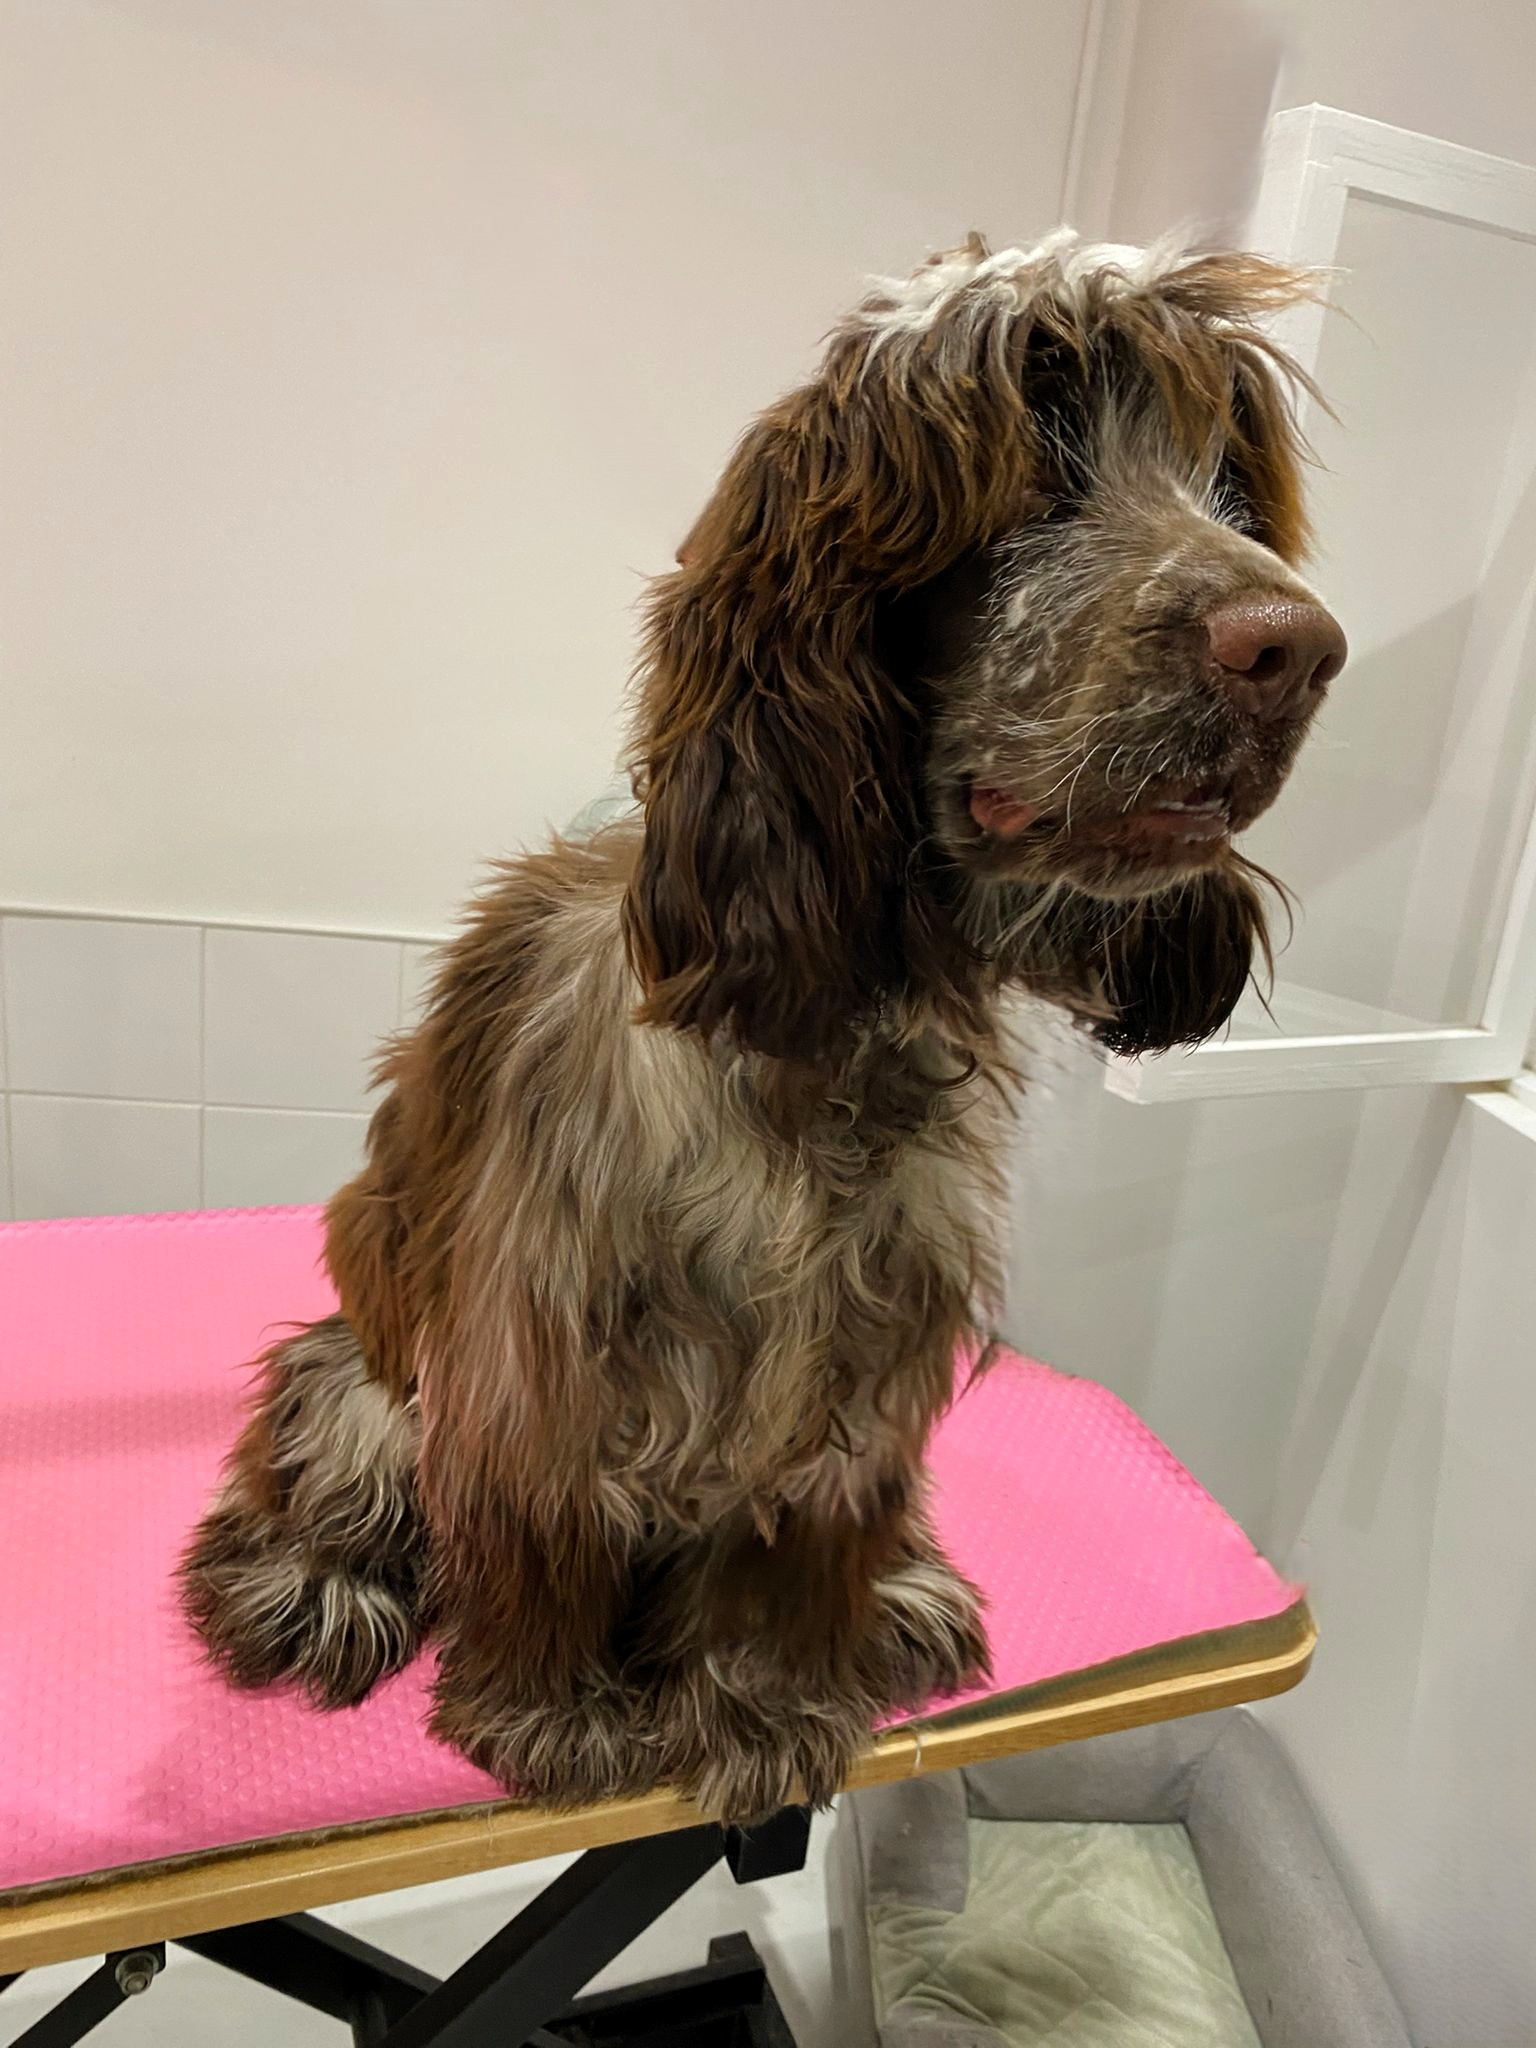
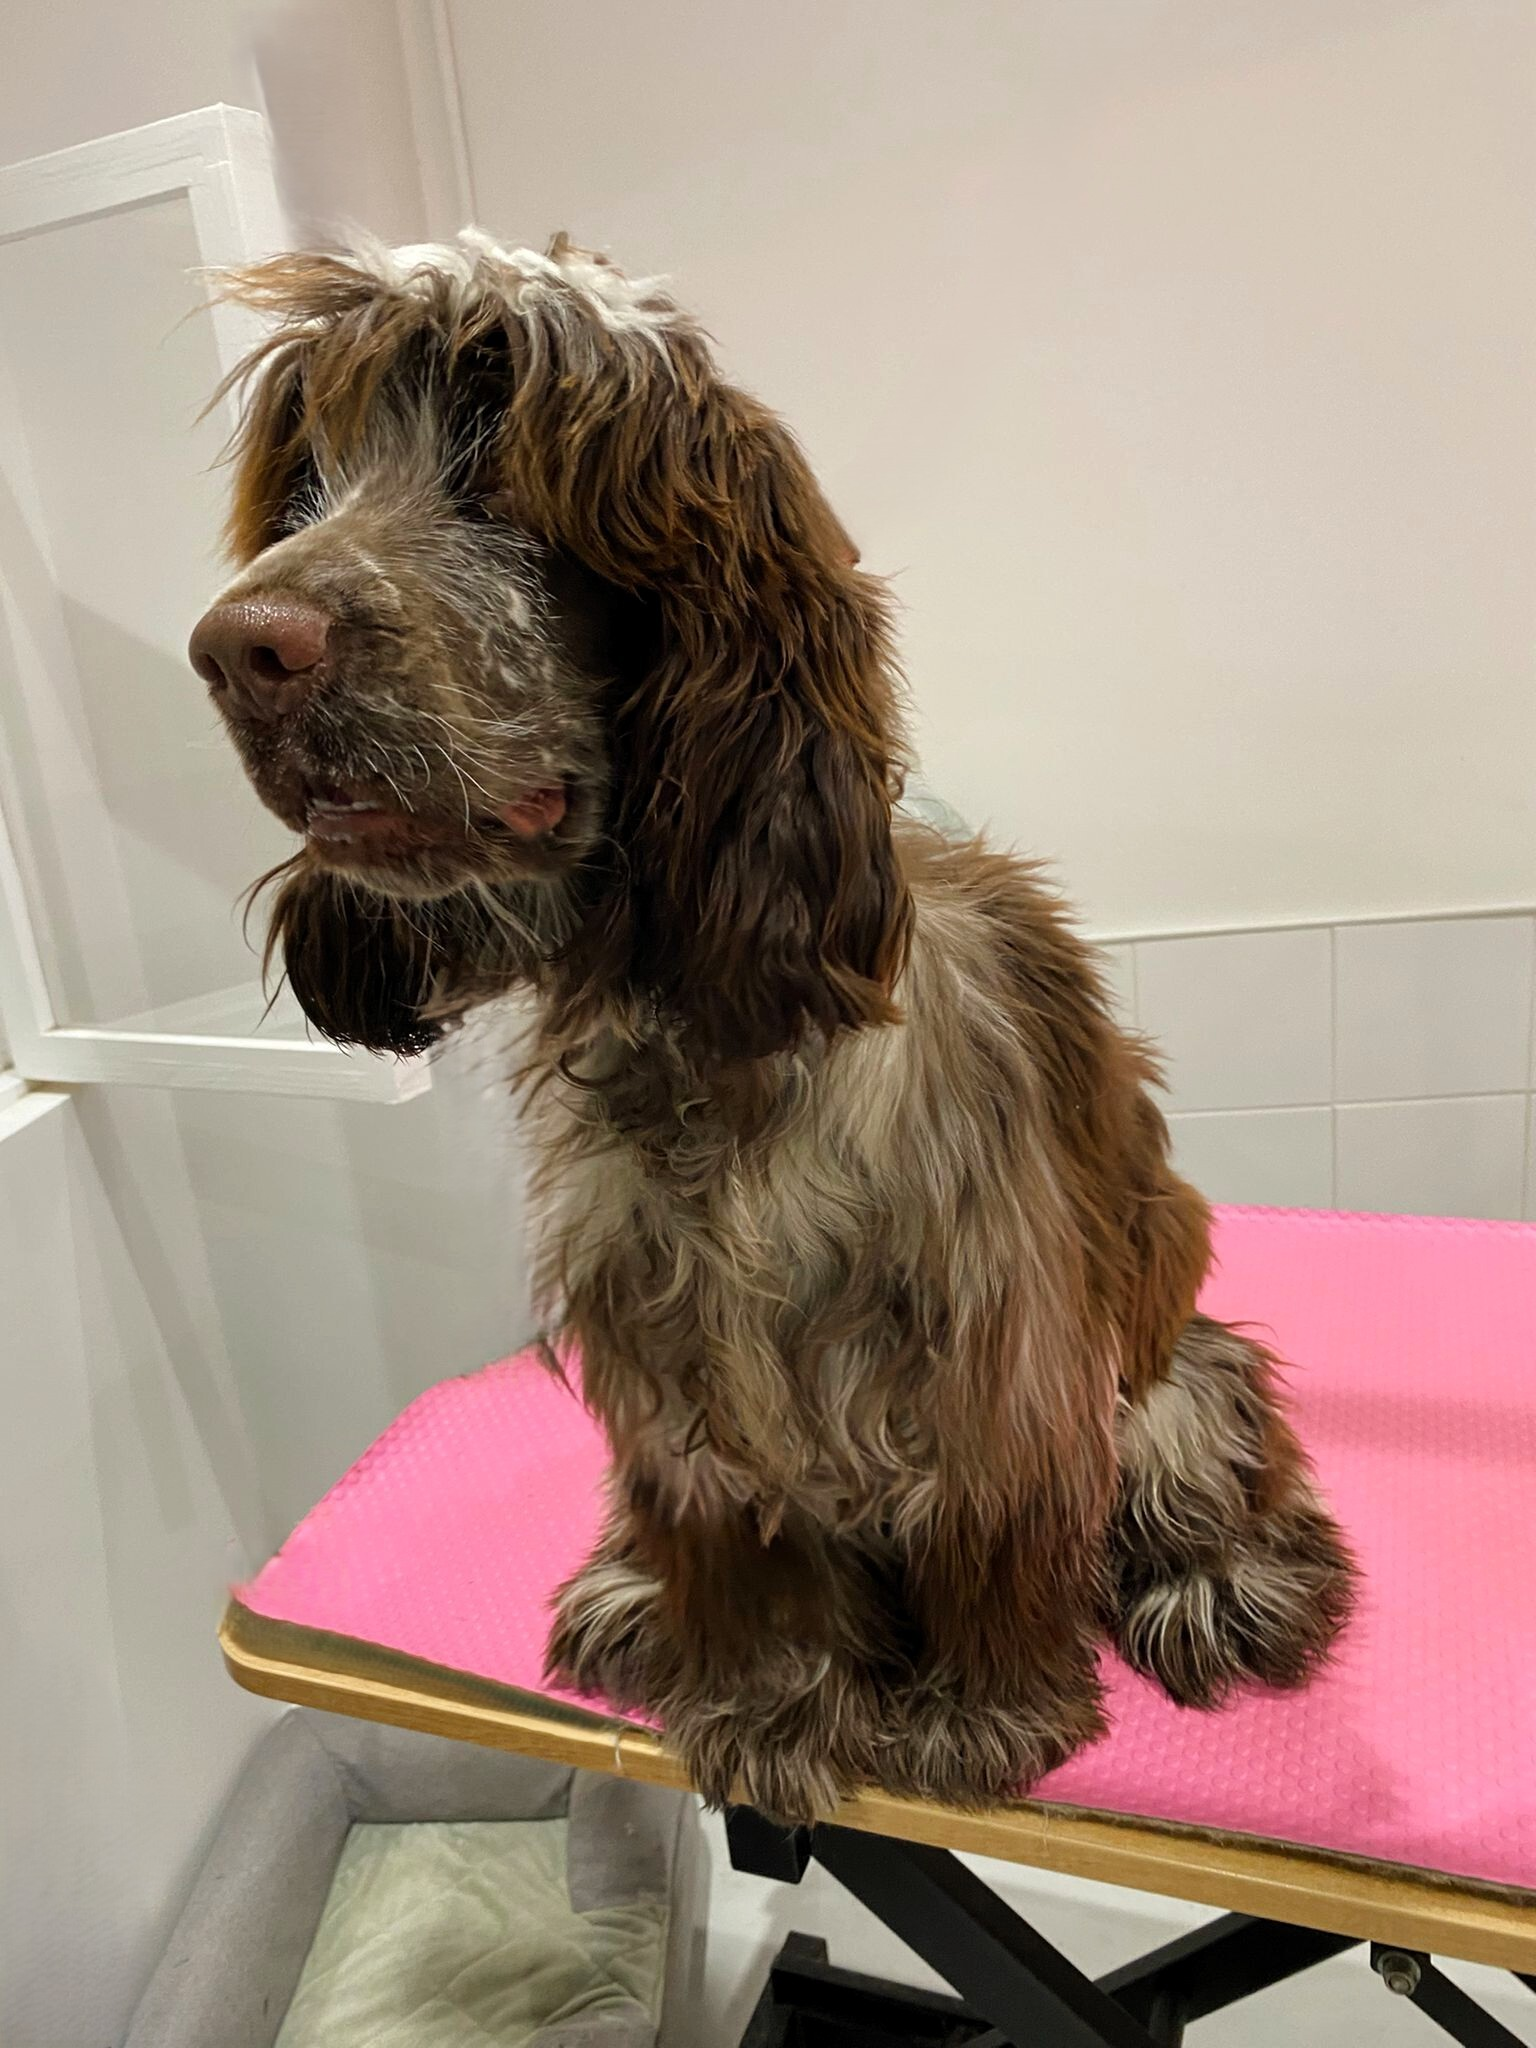
feat: avant/après zoom and position adjustments for slots 3-6
- Slot 3: zoom 1.3, after zoom 1.6, avant flipped horizontally
- Slot 4: zoom 1.2, avant zoom 1.5
- Slot 5: zoom 1.3, after zoom 1.5, avant pulled down (65%)
- Slot 6: zoom 1.3
- BeforeAfterSlider: added beforeZoom and afterZoom props

diff --git a/src/app/(marketing)/services/[slug]/page.tsx b/src/app/(marketing)/services/[slug]/page.tsx
@@ -39,19 +39,25 @@ const BEFORE_AFTER_PAIRS = [
   {
     before: { src: '/avant-apres-3-avant.jpg', alt: 'Avant toilettage' },
     after: { src: '/avant-apres-3-apres.jpg', alt: 'Après toilettage' },
+    zoom: 1.3,
+    afterZoom: 1.6,
   },
   {
     before: { src: '/avant-apres-4-avant.jpg', alt: 'Avant toilettage' },
     after: { src: '/avant-apres-4-apres.jpg', alt: 'Après toilettage' },
     zoom: 1.2,
+    beforeZoom: 1.5,
   },
   {
-    before: { src: '/avant-apres-5-avant.jpg', alt: 'Avant toilettage' },
+    before: { src: '/avant-apres-5-avant.jpg', alt: 'Avant toilettage', position: 'center 65%' },
     after: { src: '/avant-apres-5-apres.jpg', alt: 'Après toilettage' },
+    zoom: 1.3,
+    afterZoom: 1.5,
   },
   {
     before: { src: '/avant-apres-6-avant.jpg', alt: 'Avant toilettage' },
     after: { src: '/avant-apres-6-apres.jpg', alt: 'Après toilettage' },
+    zoom: 1.3,
   },
 ]
 
@@ -177,6 +183,8 @@ export default async function ServicePage({ params }: Props) {
                     beforeColor={'beforeColor' in pair ? (pair.beforeColor as string) : undefined}
                     afterColor={'afterColor' in pair ? (pair.afterColor as string) : undefined}
                     zoom={'zoom' in pair ? (pair.zoom as number) : undefined}
+                    beforeZoom={'beforeZoom' in pair ? (pair.beforeZoom as number) : undefined}
+                    afterZoom={'afterZoom' in pair ? (pair.afterZoom as number) : undefined}
                   />
                 </Reveal>
               ))}

diff --git a/src/components/sections/before-after-slider.tsx b/src/components/sections/before-after-slider.tsx
@@ -9,6 +9,8 @@ interface BeforeAfterSliderProps {
   beforeColor?: string
   afterColor?: string
   zoom?: number
+  beforeZoom?: number
+  afterZoom?: number
 }
 
 export function BeforeAfterSlider({
@@ -17,6 +19,8 @@ export function BeforeAfterSlider({
   beforeColor,
   afterColor,
   zoom = 1,
+  beforeZoom,
+  afterZoom,
 }: BeforeAfterSliderProps) {
   const [position, setPosition] = useState(50)
   const [active, setActive] = useState(false)
@@ -53,7 +57,10 @@ export function BeforeAfterSlider({
             alt={after.alt ?? 'Après'}
             fill
             className="object-cover"
-            style={{ transform: `scale(${zoom})`, objectPosition: after.position ?? 'center' }}
+            style={{
+              transform: `scale(${afterZoom ?? zoom})`,
+              objectPosition: after.position ?? 'center',
+            }}
             sizes="(max-width: 640px) 100vw, 25vw"
           />
         ) : (
@@ -77,7 +84,10 @@ export function BeforeAfterSlider({
             alt={before.alt ?? 'Avant'}
             fill
             className="object-cover"
-            style={{ transform: `scale(${zoom})`, objectPosition: before.position ?? 'center' }}
+            style={{
+              transform: `scale(${beforeZoom ?? zoom})`,
+              objectPosition: before.position ?? 'center',
+            }}
             sizes="(max-width: 640px) 100vw, 25vw"
           />
         ) : (
